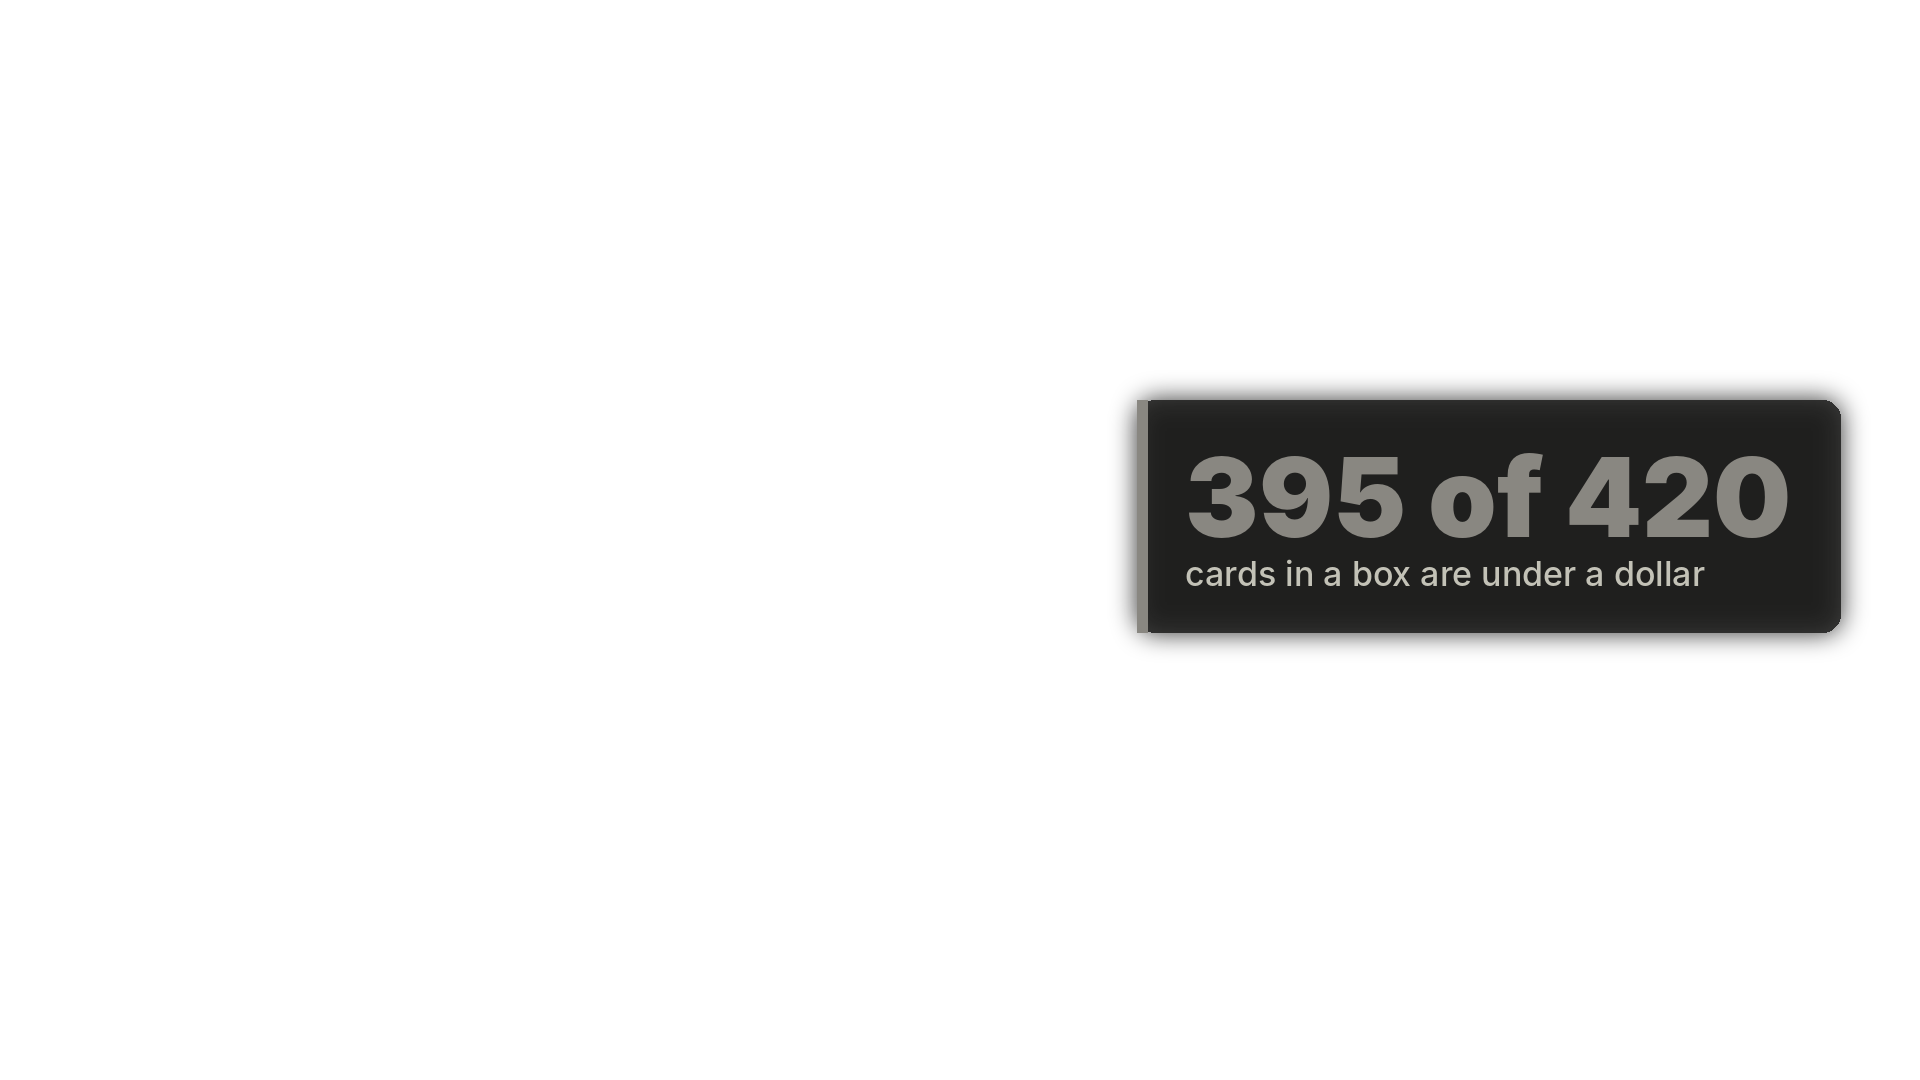
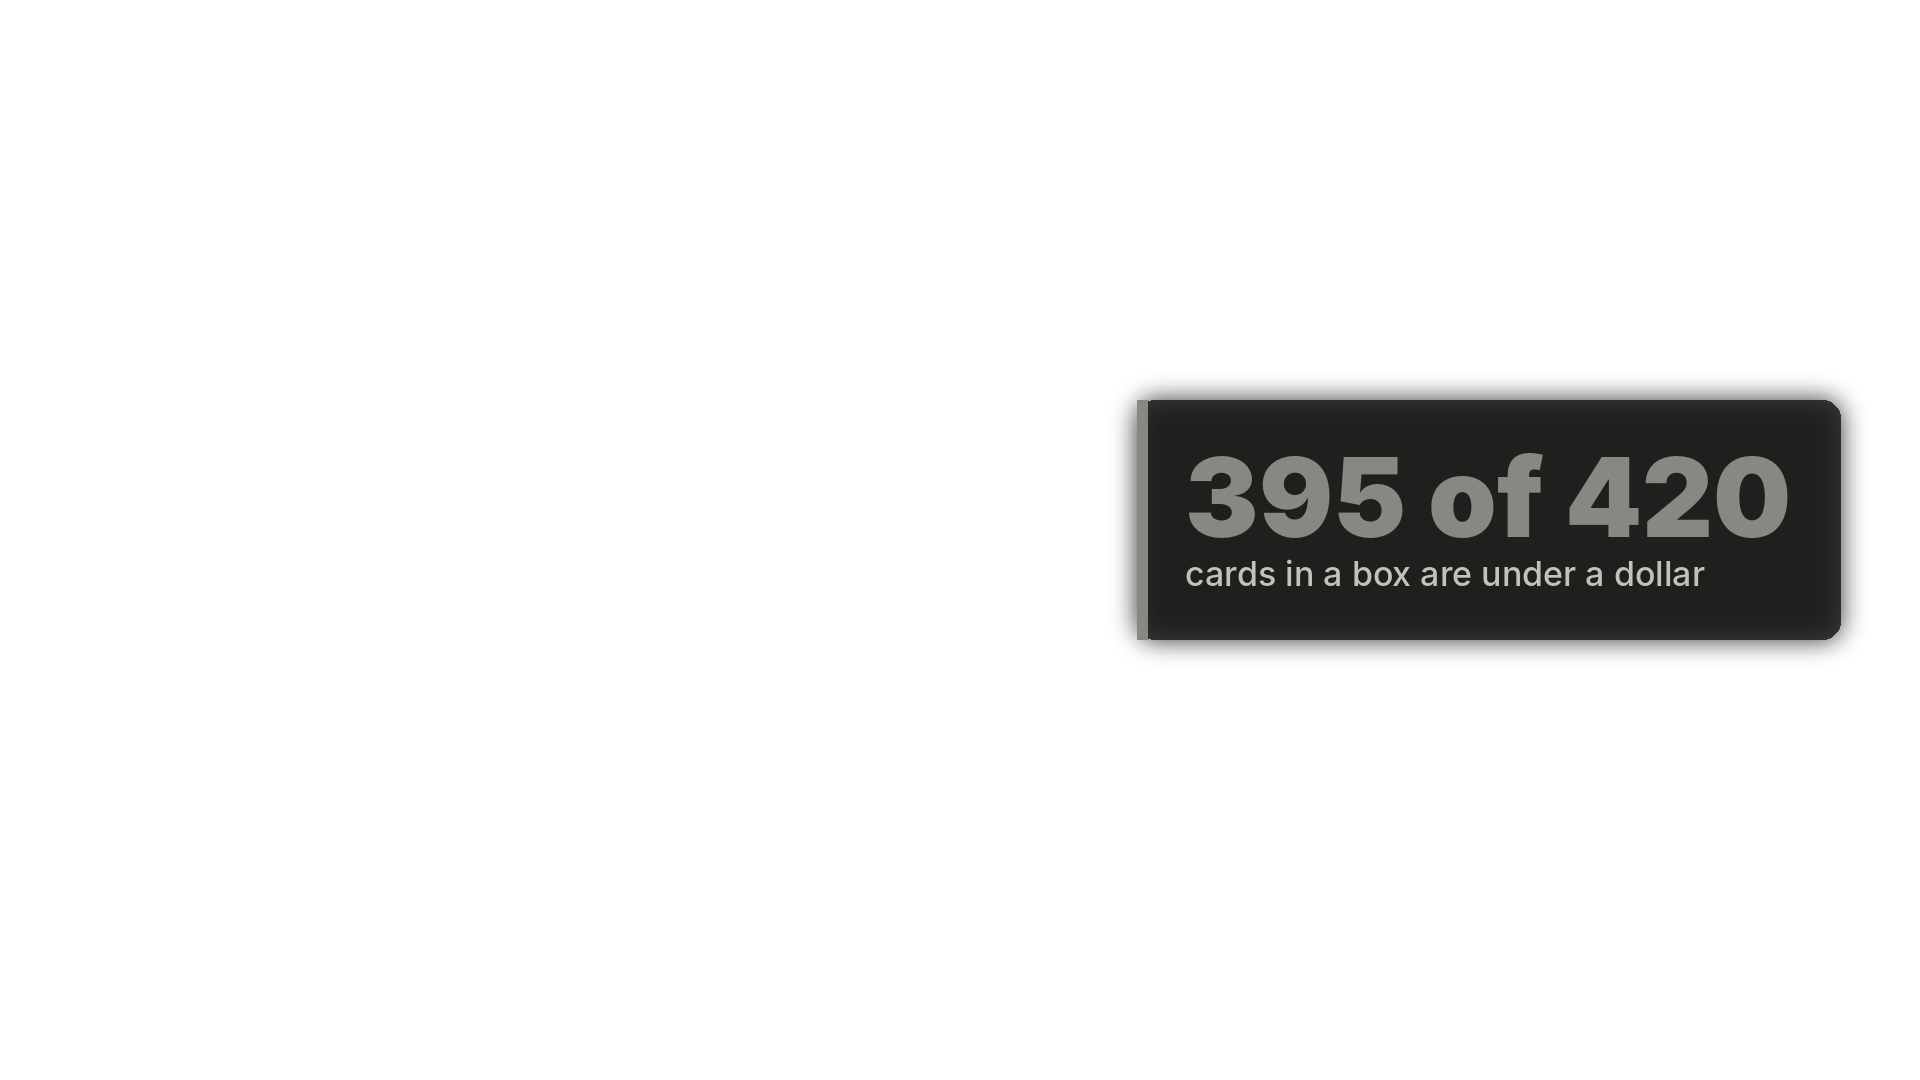
edit: receipts panel fills the talking-head shots, callout text wraps clear of the face

Changed region(s): [[0.5938, 0.5806, 0.9688, 0.6111]]

diff --git a/edit/edit.py b/edit/edit.py
@@ -359,6 +359,27 @@ PIP_W, PIP_H, PIP_M = 370, 340, (28, 20)   # cut-out pip incl. 20px glow padding
 KEY = True          # the recording has a pure-black background: key it out, put the backdrop behind, cut-out pip
 KEY_CROP = (990, 900, 465, 180)    # w, h, x, y of the head-and-shoulders crop used for the pip (source is centered)
 SLIDE_IN, SLIDE_OUT = 0.35, 0.30
+FACE_DX = 0         # talking head stays centered (callouts on the right, receipts panel on the left)
+
+# the receipts panel: while it's just you on screen, the left side keeps a running list of the numbers so far.
+# a receipt is filed when the graphic that shows it ends. (event id -> big, small, colour)
+RECEIPTS = {
+    'six_cents': ('6¢', 'what a god pack adds to a $5.49 pack', 'BLUE'),
+    'ratio_127': ('$1.35', 'of cards per $1 of play box, on paper', 'BLUE'),
+    'bulk_396': ('395 of 420', 'cards in a box are under a dollar', 'MUTED'),
+    'cash_46': ('49¢', 'per $1 if you actually sell it all', 'AQUA'),
+    'one_in_100': ('~1 in 70', 'boxes pay for themselves in cash', 'AQUA'),
+    'anim_clock': ('~5 hrs', 'to turn one box into about $50', 'YELLOW'),
+    'chart02': ('every set', 'collector boxes cost more than the cards inside', 'MAGENTA'),
+    'anim_reveal': ('$65', 'the average god pack', 'YELLOW'),
+    'gp_23': ('23 boxes', 'for a coin flip at seeing one god pack', 'RED'),
+    'gp_50': ('$51', 'the median god pack. half are worth less', 'YELLOW'),
+    'chart11': ('0 of 62', 'boxes god packs would ever have flipped to a win', 'RED'),
+    'net_80': ('−$0.85', 'net change per 2027 collector booster', 'RED'),
+    'cut_cash': ('3¢', 'what the three cut cards sell for, per pack', 'MAGENTA'),
+    'chart06': ('1 in 8', 'foil-rare rate the new slot needs to break even', 'BLUE'),
+}
+PANEL_ROWS = 4
 KEY_T = 16         # luma above this counts as you (the background is digital black: exactly Y=16 in video range)
 _corner_cache = {}
 # hand-placed spots where the automatic search gets it wrong (it can't tell a lone outlier dot matters)
@@ -397,6 +418,53 @@ def pip_corner(asset):
 
 def pip_xy(c): return c.split(',')
 
+def receipt_states(pl):
+    """[(start, end, png)] for the receipts panel, from the first chapter tag to the end card."""
+    import graphics as G
+    from PIL import ImageDraw
+    ev = pl['events']; tags = [e for e in ev if e['type'] == 'tag']
+    if not tags: return []
+    t0 = tags[0]['start']; t1 = pl['duration'] - ((pl.get('end_card') or {}).get('dur', 0))
+    trig = sorted([(e['end'] + 0.15, 'r', e['id']) for e in ev if e['id'] in RECEIPTS] + [(e['start'], 't', e['id']) for e in tags])
+    states, rows, chap = [], [], 0
+    for t, kind, eid in trig:
+        if kind == 'r': rows.append(RECEIPTS[eid])
+        else: chap = [x['id'] for x in tags].index(eid) + 1
+        states.append((max(t, t0), list(rows), chap))
+    out = []
+    for j, (t, rws, ch) in enumerate(states):
+        end = states[j + 1][0] if j + 1 < len(states) else t1
+        if end <= max(t, t0) + 0.05 or not rws: continue
+        f = wpath(f'panel_{pl["cut"]}_{j:02d}.png')
+        if not os.path.exists(f):
+            img = G.blank(); d = ImageDraw.Draw(img)
+            fh, fb, fs = G.font('semi', 22), G.font('black', 56), G.font('med', 24)
+            show = rws[-PANEL_ROWS:]; x0, y0, w = 50, 230, 470
+            def wrap(text):
+                lines, cur = [], ''
+                for word in text.split():
+                    if G.tw(d, (cur + ' ' + word).strip(), fs)[0] > w - 84: lines.append(cur); cur = word
+                    else: cur = (cur + ' ' + word).strip()
+                return lines + [cur]
+            heights = [68 + 31 * len(wrap(sm)) + 20 for _, sm, _ in show]
+            G.plate(img, (x0, y0, x0 + w, y0 + 78 + sum(heights)), alpha=205)
+            d = ImageDraw.Draw(img)
+            d.text((x0 + 32, y0 + 26), 'THE RECEIPTS', font=fh, fill=G.YELLOW)
+            for q in range(len(tags)):   # chapter progress
+                bx = x0 + w - 28 - (len(tags) - q) * 22
+                d.rounded_rectangle((bx, y0 + 36, bx + 15, y0 + 42), radius=3, fill=G.YELLOW if q < ch else (70, 70, 66))
+            y = y0 + 78
+            for r, ((big, sm, col), hh) in enumerate(zip(show, heights)):
+                newest = r == len(show) - 1; c = getattr(G, col)
+                dim = (lambda rgb: rgb) if newest else (lambda rgb: tuple(int(v * 0.5 + 26 * 0.5) for v in rgb))
+                d.rectangle((x0 + 32, y + 6, x0 + 38, y + hh - 18), fill=dim(c))
+                d.text((x0 + 56, y), big, font=fb, fill=dim(c))
+                for li, line in enumerate(wrap(sm)): d.text((x0 + 58, y + 70 + 31 * li), line, font=fs, fill=dim(G.INK2))
+                y += hh
+            img.crop(img.getbbox()).save(f); open(f + '.xy', 'w').write('%d,%d' % img.getbbox()[:2])   # small overlay = fast
+        out.append((max(t, t0), end, f, end < t1))
+    return out
+
 def render_piece(pl, base, i, n, pip, burn, music):
     s = i * PIECE; e = min(pl['duration'], s + PIECE); o = wpath(f'out_{pl["cut"]}_{i:03d}.mkv')
     if os.path.exists(o): return o
@@ -409,10 +477,19 @@ def render_piece(pl, base, i, n, pip, burn, music):
         fc.append(f"[0:v]format=yuv420p,split=2[src][msrc];[msrc]extractplanes=y,scale={W // 2}:{H // 2},lut=y='if(gt(val,{KEY_T}),255,0)',"
                   f"dilation,erosion,erosion,gblur=sigma=0.8,scale={W}:{H}[mask];"
                   "[src][mask]alphamerge,split=2[cut][pp];"
-                  f"[1:v]scale={W}:{H},fps={FPS},format=yuv420p[plate];[plate][cut]overlay=shortest=1:format=auto[bg]")
+                  f"[1:v]scale={W}:{H},fps={FPS},format=yuv420p[plate];[plate][cut]overlay=x={FACE_DX}:y=0:shortest=1:format=auto[bg]")
     else:
         fc.append('[0:v]split=2[bg][pp]')
     cur = 'bg'; pipwin = {}
+    if KEY:
+        for a, b, f, linger in receipt_states(pl):
+            if b <= s or a >= e: continue
+            st, en = max(0.0, a - s), min(e, b + (0.35 if linger else 0)) - s       # each state lingers under the next while it fades in
+            inputs += ['-loop', '1', '-t', f'{en + 0.1:.3f}', '-i', f]
+            fade_in = f",fade=in:st={st:.3f}:d=0.35:alpha=1" if a >= s else ''
+            fc.append(f"[{k}:v]format=rgba{fade_in}[o{k}]")
+            px, py = open(f + '.xy').read().split(',')
+            fc.append(f"[{cur}][o{k}]overlay={px}:{py}:enable='between(t,{st:.3f},{en:.3f})':eof_action=pass[v{k}]"); cur = f'v{k}'; k += 1
     def win(x): return f"between(t,{max(0, x['start'] - s):.3f},{x['end'] - s:.3f})"
     # one face at a time: a b-roll's pip window stops where the next b-roll starts
     br = sorted([x for x in ev if x['type'] == 'broll'], key=lambda x: x['start'])
@@ -480,7 +557,7 @@ def render(src, cut, pip, burn, music, budget=150):
     import hashlib, glob
     # plan changed -> rebuild everything; only the overlay options/layout changed -> just redo the finished pieces
     stamp = hashlib.md5(json.dumps([pl, FPS, VOICE_CHAIN, LOUD], sort_keys=True).encode()).hexdigest()
-    ostamp = hashlib.md5(json.dumps([pl, pip, burn, music, 'overlays-v6', FPS, KEY], sort_keys=True).encode()).hexdigest()
+    ostamp = hashlib.md5(json.dumps([pl, pip, burn, music, 'overlays-v8', FPS, KEY, FACE_DX, RECEIPTS], sort_keys=True).encode()).hexdigest()
     sf = wpath(f'render_stamp_{cut}.txt'); of = wpath(f'overlay_stamp_{cut}.txt')
     if not os.path.exists(sf) or open(sf).read() != stamp:
         for pat in ('out_*', 'base_*', 'card_*', 'seg_*', 'trim*', 'base_raw.mkv'):

diff --git a/edit/graphics.py b/edit/graphics.py
@@ -39,10 +39,10 @@ def plate(img, box, alpha=200, radius=18):
 def tw(d, text, f): b = d.textbbox((0, 0), text, font=f); return b[2] - b[0], b[3] - b[1]
 
 # ----------------------------------------------------------------------------- behind the keyed-out talking head
-def backdrop():
+def backdrop(cx=960):
     import numpy as np
     y, x = np.mgrid[0:H, 0:W].astype(float)
-    r = np.sqrt(((x - 960) / 900) ** 2 + ((y - 600) / 620) ** 2)          # soft pool of light behind the head
+    r = np.sqrt(((x - cx) / 900) ** 2 + ((y - 600) / 620) ** 2)          # soft pool of light behind the head
     glow = np.clip(1 - r, 0, 1) ** 1.6
     vig = np.clip(r - 0.9, 0, 1) * 0.6                                      # darker corners
     base = np.array(SURF, float); lift = np.array((44, 46, 50), float) - base
@@ -131,12 +131,17 @@ def callouts():
     for key, big, small, col in CALLOUTS:
         img = blank(); d = ImageDraw.Draw(img)
         fb = font('black', 110 if len(big) < 12 else 76); fs = font('med', 34)
-        bw, bh = tw(d, big, fb); sw, sh = tw(d, small, fs)
+        bw, bh = tw(d, big, fb)
+        lines, cur = [], ''   # wrap the small line so the plate stays clear of the face (max ~460px of text)
+        for word in small.split():
+            if cur and tw(d, cur + ' ' + word, fs)[0] > max(460, bw): lines.append(cur); cur = word
+            else: cur = (cur + ' ' + word).strip()
+        lines.append(cur); sw = max(tw(d, l, fs)[0] for l in lines); sh = 44 * len(lines) - 10
         w = max(bw, sw) + 96; x1 = W - 80; x0 = x1 - w; y0 = 400; y1 = y0 + bh + sh + 120
         plate(img, (x0, y0, x1, y1), alpha=215)
         d.rectangle((x0, y0, x0 + 10, y1), fill=col)
         d.text((x0 + 48, y0 + 30), big, font=fb, fill=col if col != INK else INK)
-        d.text((x0 + 48, y0 + 50 + bh + 18), small, font=fs, fill=INK2)
+        for li, l in enumerate(lines): d.text((x0 + 48, y0 + 50 + bh + 18 + 44 * li), l, font=fs, fill=INK2)
         save(img, f'callout_{key}.png')
 
 # ----------------------------------------------------------------------------- lower third, badge, source tag

diff --git a/edit/README.md b/edit/README.md
@@ -36,6 +36,7 @@ python3 edit/make_cues.py     # rebuilds cues_a.json / cues_b.json from the cue 
   - **top left**: chapter tags
   - **bottom left**: name lower-third (first ~20 seconds only)
 - record on a pure-black background (a camera app's background removal works): the edit keys the black out, puts a soft backdrop behind you, and when a chart is up you slide in as a cut-out (head and shoulders, faded torso, light rim) instead of a box. `KEY = False` in `edit.py` turns that off.
+- while it's just you on screen, the left side carries **the receipts**: a running list of the numbers so far. each one gets filed there when its callout or graphic ends; the newest is lit, older ones dim, and dashes up top track the chapter. edit `RECEIPTS` in `edit.py` to change what gets filed.
 - during charts, your video shrinks into a corner. the tool picks the spot on each graphic that covers the least (usually bottom right, never over the callout band); `PIP_SPOT` in `edit.py` pins it by hand for a graphic where it guesses wrong.
 
 **audio**
